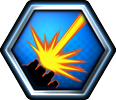
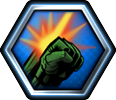
PowerHouse v1.5.0
Updates to:
* Gatling Gun and Combat Drones tooltips.
* Suppression Fire and Heavy Fire advantage point costs.
* Munition power icons.
* The Renegade innate talent.

* Added The Vanguard innate talent and Archetype.
* Temporary Rolling Fire: More Bullets advantage description. (In-game text error)
* Added Rolling Fire, Heavy Burst, and Tactical Strike powers.

diff --git a/powerhouse-data.js b/powerhouse-data.js
@@ -5,7 +5,7 @@
  *
  * Author: Kyle W T Sherman
  *
- * Time-stamp: <2026-08-22 06:35:00 (woof-wolf)>
+ * Time-stamp: <2026-09-02 07:40:00 (woof-wolf)>
  *============================================================================*/
 
 //==============================================================================
@@ -171,7 +171,9 @@ dataInnateTalent[dataInnateTalent.length] = new InnateTalent(dataInnateTalent.le
 dataInnateTalent[dataInnateTalent.length] = new InnateTalent(dataInnateTalent.length, 'The Combatant', 'The Combatant', 'Str: 10, Dex: 10, Int: 8, Ego: 10', 'This is the innate characteristic for The Combatant.<br />Con: 5, End: 5, Str: 10, Dex: 10, Int: 8, Ego: 10, Pre: 5, Rec: 5');
 dataInnateTalent[dataInnateTalent.length] = new InnateTalent(dataInnateTalent.length, 'The Fissile', 'The Fissile', 'Dex: 10, Int: 10, Ego: 8, Rec: 10', 'This is the innate characteristic for The Fissile.<br />Con: 5, End: 5, Str: 5, Dex: 10, Int: 10, Ego: 8, Pre: 5, Rec: 10');
 dataInnateTalent[dataInnateTalent.length] = new InnateTalent(dataInnateTalent.length, 'The Overseer', 'The Overseer', 'End: 8, Int: 10, Ego: 10, Pre: 10', 'This is the innate characteristic for The Overseer.<br />Con: 5, End: 8, Str: 5, Dex: 5, Int: 10, Ego: 10, Pre: 10, Rec: 5');
-dataInnateTalent[dataInnateTalent.length] = new InnateTalent(dataInnateTalent.length, 'The Renegade', 'The Renegade', 'Con: 8, End: 8, Dex: 10, Int: 10, Ego: 10, Rec: 10', 'This is the innate characteristic for The Renegade.<br />Con: 8, End: 8, Str: 5, Dex: 10, Int: 10, Ego: 10, Pre: 5, Rec: 10');
+dataInnateTalent[dataInnateTalent.length] = new InnateTalent(dataInnateTalent.length, 'The Renegade', 'The Renegade', 'End: 8, Dex: 10, Ego: 10, Rec: 10', 'This is the innate characteristic for The Renegade.<br />Con: 5, End: 8, Str: 5, Dex: 10, Int: 5, Ego: 10, Pre: 5, Rec: 10');
+
+dataInnateTalent[dataInnateTalent.length] = new InnateTalent(dataInnateTalent.length, 'The Vanguard', 'The Vanguard', 'Con: 10, End: 8, Ego: 10, Rec: 10', 'This is the innate characteristic for The Vanguard.<br />Con: 10, End: 8, Str: 5, Dex: 5, Int: 5, Ego: 10, Pre: 5, Rec: 10');
 
 //==============================================================================
 // Talents
@@ -6971,9 +6973,88 @@ dataPower[dataPower.length-1].advantageList.push(new PowerAdvantage(2, dataPower
 dataPower[dataPower.length-1].advantageList.push(new PowerAdvantage(3, 'Paint the Target', 'Paint the Target', 2, null, steadyFire.paintTheTarget));
 dataPower[dataPower.length-1].advantageList.push(new PowerAdvantage(4, dataPowerAlias['AM'].name, dataPowerAlias['AM'].desc, 1, null, dataPowerAlias['AM'].tip));
 
+const rollingFire = {
+  power: 
+  '<div class="popup-header">\
+    <div>Munitions<br><br>ENERGY BUILDER - RANGED DAMAGE<br><br>MAINTAIN</div>\
+  </div>\
+  <hr>\
+  <div class="popup-header">\
+    <div>INITIAL HIT<br>0 + 0 Energy every 0.5 sec<br>0.5 sec activate time (4 max)</div>\
+    <div style="text-align:right;">Targets foe<br>50 feet</div>\
+  </div>\
+  <ul>\
+    <li>Deals 49 Piercing Damage and generates +14% Energy.</li>\
+  </ul>\
+  <hr>\
+  <div class="popup-header">\
+    <div>SUBSEQUENT HITS<br>0 + 0 Energy every 0.5 sec<br>0.5 sec activate time (4 max)</div>\
+    <div style="text-align:right;">Targets foe<br>50 feet</div>\
+  </div>\
+  <ul>\
+    <li>Deals 35 Piercing Damage and generates +10% Energy every 0.5 sec.</li>\
+  </ul>',
+
+  moreBullets:
+  '<div>\
+  MORE BULLETS<br>\
+  <ul>\
+    <li>Changes this power to deal damage in a Cylinder instead of to only a single target.</li>\
+  </ul>\
+  </div>'
+};
+
+dataPower[dataPower.length] = new Power(dataPower.length, 'Rolling Fire', '<img src="img/power-icons/munitions/Munitions_RollingFire.png" />&nbsp;Rolling Fire', 2, 7, pow++, -1, rollingFire.power);
+dataPower[dataPower.length-1].advantageList.push(new PowerAdvantage(0, null, null, null, null, null));
+dataPower[dataPower.length-1].advantageList.push(new PowerAdvantage(1, dataPowerAlias['R2'].name, dataPowerAlias['R2'].desc, 2, null, dataPowerAlias['R2'].tip));
+dataPower[dataPower.length-1].advantageList.push(new PowerAdvantage(2, dataPowerAlias['R3'].name, dataPowerAlias['R3'].desc, 2, 1, dataPowerAlias['R3'].tip));
+dataPower[dataPower.length-1].advantageList.push(new PowerAdvantage(3, 'More Bullets', 'More Bullets', 2, null, rollingFire.moreBullets));
+dataPower[dataPower.length-1].advantageList.push(new PowerAdvantage(4, dataPowerAlias['AM'].name, dataPowerAlias['AM'].desc, 1, null, dataPowerAlias['AM'].tip));
+
 //------------------------------------------------------------------------------
 // Munitions: Tier 0
 //------------------------------------------------------------------------------
+
+const heavyBurst = {
+  power: 
+  '<div class="popup-header">\
+    <div>Munitions<br>29-50 Energy cost<br>1.33 sec charge time<br>0.67 sec activate time</div>\
+    <div style="text-align:right;">Targets foe<br>100 feet</div>\
+  </div><br>\
+  RANGED DAMAGE - BLAST - FURIOUS<br><br>\
+  CHARGE<br>\
+  <ul>\
+    <li>Deals 193-496 Piercing Damage based on charge time, and has a 45-100% chance to apply a stack of Furious to you.</li>\
+    <li>Furious gives you +1.5% Critical Chance for 15 sec. This effect can stack up to 3 times.</li>\
+    <li>When taking damage, Furious grants you Willpower, which gives you +300 Health Points over 3 seconds. Willpower can stack up to 3 times.</li>\
+  </ul>',
+
+  armorPiercing:
+  '<div>\
+  ARMOR PIERCING<br>\
+  <ul>\
+    <li>When this power is fully charged, applies <strong>Armor Piercing</strong>, reducing your target\\\'s resistance to your <strong>Crushing</strong> and <strong>Piercing</strong> damage for a short time.</li>\
+  </ul>\
+  </div>',
+
+  highVelocityRounds:
+  '<div>\
+  HIGH VELOCITY ROUNDS<br>\
+  <ul>\
+    <li>Chance to <strong>Knock Back</strong> targets.</li>\
+  </ul>\
+  </div>'
+};
+
+dataPower[dataPower.length] = new Power(dataPower.length, 'Heavy Burst', '<img src="img/power-icons/munitions/Munitions_HeavyBurst.png" />&nbsp;Heavy Burst', 2, 7, pow++, 0, heavyBurst.power);
+dataPower[dataPower.length-1].advantageList.push(new PowerAdvantage(0, null, null, null, null, null));
+dataPower[dataPower.length-1].advantageList.push(new PowerAdvantage(1, dataPowerAlias['R2'].name, dataPowerAlias['R2'].desc, 2, null, dataPowerAlias['R2'].tip));
+dataPower[dataPower.length-1].advantageList.push(new PowerAdvantage(2, dataPowerAlias['R3'].name, dataPowerAlias['R3'].desc, 2, 1, dataPowerAlias['R3'].tip));
+dataPower[dataPower.length-1].advantageList.push(new PowerAdvantage(3, 'Armor Piercing', 'Armor Piercing', 2, null, heavyBurst.armorPiercing));
+dataPower[dataPower.length-1].advantageList.push(new PowerAdvantage(4, 'High Velocity Rounds', 'High Velocity Rounds', 2, null, heavyBurst.highVelocityRounds));
+dataPower[dataPower.length-1].advantageList.push(new PowerAdvantage(5, dataPowerAlias['AM'].name, dataPowerAlias['AM'].desc, 1, null, dataPowerAlias['AM'].tip));
+dataPower[dataPower.length-1].advantageList.push(new PowerAdvantage(6, dataPowerAlias['BRK'].name, dataPowerAlias['BRK'].desc, 3, null, dataPowerAlias['BRK'].tip));
+dataPower[dataPower.length-1].advantageList.push(new PowerAdvantage(7, dataPowerAlias['CHAL'].name, dataPowerAlias['CHAL'].desc, 1, null, dataPowerAlias['CHAL'].tip));
 
 const burstShot = {
   power: 
@@ -7606,9 +7687,9 @@ dataPower[dataPower.length] = new Power(dataPower.length, 'Heavy Fire', '<img sr
 dataPower[dataPower.length-1].advantageList.push(new PowerAdvantage(0, null, null, null, null, null));
 dataPower[dataPower.length-1].advantageList.push(new PowerAdvantage(1, dataPowerAlias['R2'].name, dataPowerAlias['R2'].desc, 2, null, dataPowerAlias['R2'].tip));
 dataPower[dataPower.length-1].advantageList.push(new PowerAdvantage(2, dataPowerAlias['R3'].name, dataPowerAlias['R3'].desc, 2, 1, dataPowerAlias['R3'].tip));
-dataPower[dataPower.length-1].advantageList.push(new PowerAdvantage(3, 'I Am Bullet Proof!', 'I Am Bullet Proof!', 2, null, heavyFire.iAmBulletProof));
+dataPower[dataPower.length-1].advantageList.push(new PowerAdvantage(3, 'I Am Bullet Proof!', 'I Am Bullet Proof!', 3, null, heavyFire.iAmBulletProof));
 dataPower[dataPower.length-1].advantageList.push(new PowerAdvantage(4, 'Assault', 'Assault', 2, null, heavyFire.assault));
-dataPower[dataPower.length-1].advantageList.push(new PowerAdvantage(5, 'Aggression', 'Aggression', 3, null, heavyFire.aggression));
+dataPower[dataPower.length-1].advantageList.push(new PowerAdvantage(5, 'Aggression', 'Aggression', 2, null, heavyFire.aggression));
 dataPower[dataPower.length-1].advantageList.push(new PowerAdvantage(6, dataPowerAlias['AM'].name, dataPowerAlias['AM'].desc, 1, null, dataPowerAlias['AM'].tip));
 dataPower[dataPower.length-1].advantageList.push(new PowerAdvantage(7, dataPowerAlias['BRK'].name, dataPowerAlias['BRK'].desc, 3, null, dataPowerAlias['BRK'].tip));
 dataPower[dataPower.length-1].advantageList.push(new PowerAdvantage(8, dataPowerAlias['CHAL'].name, dataPowerAlias['CHAL'].desc, 1, null, dataPowerAlias['CHAL'].tip));
@@ -7659,7 +7740,7 @@ dataPower[dataPower.length] = new Power(dataPower.length, 'Suppression Fire', '<
 dataPower[dataPower.length-1].advantageList.push(new PowerAdvantage(0, null, null, null, null, null));
 dataPower[dataPower.length-1].advantageList.push(new PowerAdvantage(1, dataPowerAlias['R2'].name, dataPowerAlias['R2'].desc, 2, null, dataPowerAlias['R2'].tip));
 dataPower[dataPower.length-1].advantageList.push(new PowerAdvantage(2, dataPowerAlias['R3'].name, dataPowerAlias['R3'].desc, 2, 1, dataPowerAlias['R3'].tip));
-dataPower[dataPower.length-1].advantageList.push(new PowerAdvantage(3, 'Wall of Bullets', 'Wall of Bullets', 2, null, suppressionFire.wallOfBullets));
+dataPower[dataPower.length-1].advantageList.push(new PowerAdvantage(3, 'Wall of Bullets', 'Wall of Bullets', 3, null, suppressionFire.wallOfBullets));
 dataPower[dataPower.length-1].advantageList.push(new PowerAdvantage(4, 'Aggression', 'Aggression', 2, null, suppressionFire.aggression));
 dataPower[dataPower.length-1].advantageList.push(new PowerAdvantage(5, 'Listen to Reason', 'Listen to Reason', 2, null, suppressionFire.listenToReason));
 dataPower[dataPower.length-1].advantageList.push(new PowerAdvantage(6, dataPowerAlias['AM'].name, dataPowerAlias['AM'].desc, 1, null, dataPowerAlias['AM'].tip));
@@ -8035,19 +8116,6 @@ dataPower[dataPower.length-1].advantageList.push(new PowerAdvantage(7, dataPower
 const gatlingGun = {
   power: 
   '<div class="popup-header">\
-    <div>Munitions<br>30 + 23 Energy every 0.5 sec<br>0.5 sec activate time (4 max)</div>\
-    <div style="text-align:right;">Targets foe (5 max)<br>100 feet; 3 foot Cylinder</div>\
-  </div><br>\
-  RANGED AOE DAMAGE - DEBUFF<br><br>\
-  MAINTAIN<br>\
-  <ul>\
-    <li>Deals 65 Piercing Damage 2 times every 0.5 sec to all targets.</li>\
-    <li>Has a 10% chance every hit to apply Armor Piercing to affected targets, reducing their Crushing and Piercing resistance for your attacks by 15% for 15 sec.</li>\
-    <li>When fully maintained, has a 100% chance to apply Armor Piercing.</li>\
-  </ul>',
-
-  powerPTS: 
-  '<div class="popup-header">\
     <div>Munitions<br>32 + 25 Energy every 0.5 sec<br>0.5 sec activate time (4 max)</div>\
     <div style="text-align:right;">Targets foe (5 max)<br>100 feet; 3 foot Cylinder</div>\
   </div><br>\
@@ -8384,8 +8452,8 @@ const combatDrones = {
   RANK UP BENEFITS<br>\
   <ul>\
     <li>R1: In Healing Mode, your Combat Drones have a strong, single target maintained Healing Beam. In Offense Mode, they use a quick firing but relatively weak Gatling Gun.</li>\
-    <li>R2: The Healing Beam and Gatling Gun are upgraded to affect all targets in a line.</li>\
-    <li>R3: The Healing Beam now affects all allies in a sphere around the main healing target, and Gatling Gun can refresh a portion of your Frail Armor or Armor Piercing debuffs.</li>\
+    <li>R2: The Healing Beam and Gatling Gun are upgraded to affect all targets in a line, and Gatling Gun gains a small chance to <strong>Fear</strong> targets.</li>\
+    <li>R3: The Healing Beam now affects all allies in a sphere around the main healing target, and Gatling Gun can refresh a portion of your <strong>Frail Armor</strong> or <strong>Armor Piercing</strong> debuffs.</li>\
   </ul>'
 };
 
@@ -8531,7 +8599,7 @@ const twoGunMojo = {
   MAINTAIN<br>\
   <ul>\
     <li>Deals 163 Piercing Damage every 0.5 sec.</li>\
-    <li>Has a 15% chance every hit to apply Furious, increasing your Critical Chance by 1.5% for 12 sec. Stacks up to 3 times. When taking damage, Furious grants you Willpower, healing you for 300 health over 3 sec.</li>\
+    <li>Has a 15% chance every hit to apply Furious, increasing your Critical Chance by 1.5% for 12 sec. Stacks up to 3 times. When taking damage, Furious grants you Willpower, healing you for +300 Health Points over 3 sec.</li>\
   </ul>',
 
   closeTheGap:
@@ -8691,7 +8759,7 @@ const gatlingArm = {
   MAINTAIN<br>\
   <ul>\
     <li>Deals 151 Piercing Damage every 0.5 sec.</li>\
-    <li>Has a 10% chance every hit to apply Furious, increasing your Critical Chance by 1.5% for 12 sec. Stacks up to 3 times. When taking damage, Furious grants you Willpower, healing you for 300 health over 3 sec.</li>\
+    <li>Has a 10% chance every hit to apply Furious, increasing your Critical Chance by 1.5% for 12 sec. Stacks up to 3 times. When taking damage, Furious grants you Willpower, healing you for +300 Health Points over 3 sec.</li>\
   </ul>',
 
   opportunistic:
@@ -8749,6 +8817,47 @@ dataPower[dataPower.length-1].advantageList.push(new PowerAdvantage(1, dataPower
 dataPower[dataPower.length-1].advantageList.push(new PowerAdvantage(2, dataPowerAlias['R3'].name, dataPowerAlias['R3'].desc, 2, 1, dataPowerAlias['R3'].tip));
 dataPower[dataPower.length-1].advantageList.push(new PowerAdvantage(3, 'Tread Softly', 'Tread Softly', 2, null, leadTempest.treadSoftly));
 dataPower[dataPower.length-1].advantageList.push(new PowerAdvantage(4, 'Maybe I\'m Just Better', 'Maybe I\'m Just Better', 2, null, leadTempest.maybeImJustBetter));
+dataPower[dataPower.length-1].advantageList.push(new PowerAdvantage(5, dataPowerAlias['AM'].name, dataPowerAlias['AM'].desc, 1, null, dataPowerAlias['AM'].tip));
+
+const tacticalStrike = {
+  power: 
+  '<div class="popup-header">\
+    <div>Munitions<br>76 Energy cost<br>0.83 sec charge time (0.83 min)<br>0.67 sec activate time</div>\
+    <div style="text-align:right;">Targets foe<br>100 feet<br>15 seconds recharge</div>\
+  </div><br>\
+  RANGED AOE DAMAGE - DISORIENT - KNOCK<br><br>\
+  CHARGE<br>\
+  <ul>\
+    <li>This power must be fully charged to activate.</li>\
+    <li>After 2.5 sec, deals 1,085 Crushing Damage to foes within 15ft.</li>\
+    <li>Knocks affected targets together 17ft and applies Disorient, reducing damage by 10% and movement speed by 50% for 12 sec.</li>\
+  </ul>',
+
+  blastRadius:
+  '<div>\
+  BLAST RADIUS<br>\
+  <ul>\
+    <li>This power now <strong>Knocks Back</strong> targets.</li>\
+  </ul>\
+  </div>',
+
+  stimPack:
+  '<div>\
+  STIM PACK<br>\
+  <ul>\
+    <li>Applies <strong>Restoration</strong>, which gives you a heal over time.</li>\
+    <li>Heals for an additional amount if your health is low.</li>\
+    <li>Has a short internal cooldown after use.</li>\
+  </ul>\
+  </div>'
+};
+
+dataPower[dataPower.length] = new Power(dataPower.length, 'Tactical Strike', '<img src="img/power-icons/munitions/Munitions_TacticalStrike.png" />&nbsp;Tactical Strike', 2, 7, pow++, 3, tacticalStrike.power);
+dataPower[dataPower.length-1].advantageList.push(new PowerAdvantage(0, null, null, null, null, null));
+dataPower[dataPower.length-1].advantageList.push(new PowerAdvantage(1, dataPowerAlias['R2'].name, dataPowerAlias['R2'].desc, 2, null, dataPowerAlias['R2'].tip));
+dataPower[dataPower.length-1].advantageList.push(new PowerAdvantage(2, dataPowerAlias['R3'].name, dataPowerAlias['R3'].desc, 2, 1, dataPowerAlias['R3'].tip));
+dataPower[dataPower.length-1].advantageList.push(new PowerAdvantage(3, 'Blast Radius', 'Blast Radius', 1, null, tacticalStrike.blastRadius));
+dataPower[dataPower.length-1].advantageList.push(new PowerAdvantage(4, 'Stim Pack', 'Stim Pack', 2, null, tacticalStrike.stimPack));
 dataPower[dataPower.length-1].advantageList.push(new PowerAdvantage(5, dataPowerAlias['AM'].name, dataPowerAlias['AM'].desc, 1, null, dataPowerAlias['AM'].tip));
 
 //------------------------------------------------------------------------------
@@ -14384,7 +14493,7 @@ const rendAndTear = {
   </div>\
   <ul>\
     <li>Deals 332 Slashing Damage and applies Furious to you, increasing your chance to critically hit by 1.5% for 12 sec. Stacks up to 3 times.</li>\
-    <li>When taking damage, Furious grants you Willpower, which heals you for 300 health over 3 sec.</li>\
+    <li>When taking damage, Furious grants you Willpower, which heals you for +300 Health Points over 3 sec.</li>\
   </ul>',
 
   noCodeOfConduct:
@@ -28667,6 +28776,7 @@ The Tempest, Ranged
 The Tenebrous, Support
 
 The Unleashed, Melee
+The Vanguard, Tank
 The Void, Hybrid
 The Witch, Support
 The Wrecker, Melee
@@ -28923,6 +29033,12 @@ dataArchetype[dataArchetype.length] = new Archetype(dataArchetype.length, 'The T
 //------------------------------------------------------------------------------
 
 dataArchetype[dataArchetype.length] = new Archetype(dataArchetype.length, 'The Unleashed', '<img src="img/archetype-icons/Archetype_Unleashed.png" />&nbsp;The Unleashed', 'Melee', ['Dexterity', 'Recovery', 'Strength'], 'The Unleashed', ['Rain of Steel', 'Blade Tempest', 'Form of the Tempest', 'Way of the Warrior', ['Force Snap', 'Strike Down'], ['Force Eruption', 'Eye of the Storm'], ['Bountiful Chi Resurgence', 'Mind Wipe'], 'Dragon\'s Wrath', 'Force Shield', 'Relentless', ['Intensity', 'Field Surge'], ['Containment Field', 'Force Geyser']], ['Dexterity', 'Warden', 'Vindicator'], '<b>The Unleashed, Melee</b>');
+
+//------------------------------------------------------------------------------
+// The Vanguard, Tank
+//------------------------------------------------------------------------------
+
+dataArchetype[dataArchetype.length] = new Archetype(dataArchetype.length, 'The Vanguard', '<img src="img/archetype-icons/Archetype_Vanguard.png" />&nbsp;The Vanguard', 'Tank', ['Ego', 'Recovery', 'Constitution'], 'The Vanguard', ['Rolling Fire', 'Heavy Burst', 'Heavy Fire', 'Invulnerability', 'Concentration', ['Combat Drones', 'Mini Mines'], 'Energy Shield', 'Gatling Gun', 'Killer Instinct', 'Unbreakable', ['Tactical Strike', 'Energy Wave'], 'Implosion Engine'], ['Ego', 'Protector', 'Guardian'], '<b>The Vanguard, Tank</b>');
 
 //------------------------------------------------------------------------------
 // The Void, Hybrid

diff --git a/powerhouse-version.js b/powerhouse-version.js
@@ -5,7 +5,7 @@
  *
  * Author: Kyle W T Sherman
  *
- * Time-stamp: <2026-08-22 06:35:00 (woof-wolf)>
+ * Time-stamp: <2026-09-02 07:40:00 (woof-wolf)>
  *============================================================================*/
 
 //==============================================================================
@@ -899,7 +899,7 @@ dataVersionUpdate[dataVersionUpdate.length] = new VersionUpdate(
         case 'framework': return value['framework'];
         case 'power': 
             var power = value['power'];
-            // Add T0 power: Steady Fire
+            // Add EB power: Steady Fire
             if (codeNum1 == 7 && codeNum2 >= 2) power++;
             // Add T1 power: Backhand Strike
             if (codeNum1 == 7 && codeNum2 >= 5) power++;
@@ -917,6 +917,49 @@ dataVersionUpdate[dataVersionUpdate.length] = new VersionUpdate(
             if (codeNum1 == 7 && codeNum2 >= 25) power++;
             // Add T3 power: Gatling Arm
             if (codeNum1 == 7 && codeNum2 >= 30) power++;
+
+            return power;
+        case 'mask': return value['mask'];
+        case 'specializationTree': return value['specializationTree'];
+        case 'specialization': return value['specialization'];
+        }
+});
+
+// Version 4 => 5
+// Addition of Munitions Powers
+dataVersionUpdate[dataVersionUpdate.length] = new VersionUpdate(
+    dataVersionUpdate.length, 4,
+    function(thing, value) {
+        var codeNum1 = (value['code1'] == undefined) ? 0 : urlCodeToNum(value['code1']); // framework
+        var codeNum2 = (value['code2'] == undefined) ? 0 : urlCodeToNum(value['code2']); // power
+        // var codeNum3 = (value['code3'] == undefined) ? 0 : urlCodeToNum(value['code3']);
+        // var codeNum4 = (value['code4'] == undefined) ? 0 : urlCodeToNum(value['code4']);
+        switch (thing) {
+        case 'data': return value['data'];
+        case 'pos': return value['pos'];
+        case 'i': return value['i'];
+        case 'inc': return value['inc'];
+        case 'code1': return value['code1'];
+        case 'code2': return value['code2'];
+        case 'code3': return value['code3'];
+        case 'code4': return value['code4'];
+        case 'archetype': 
+            if (value['type'] == 'archetype' && value['archetype'] >= 43) return value['archetype'] + 1;
+            return value['archetype'];
+        case 'superStat': return value['superStat'];
+        case 'innateTalent': return value['innateTalent'];
+        case 'talent': return value['talent'];
+        case 'CAMS': return value['CAMS'];
+        case 'travelPower': return value['travelPower'];
+        case 'framework': return value['framework'];
+        case 'power': 
+            var power = value['power'];
+            // Add EB power: Rolling Fire
+            if (codeNum1 == 7 && codeNum2 >= 3) power++;
+            // Add T0 power: Heavy Burst
+            if (codeNum1 == 7 && codeNum2 >= 3) power++;
+            // Add T3 power: Tactical Strike
+            if (codeNum1 == 7 && codeNum2 >= 40) power++;
 
             return power;
         case 'mask': return value['mask'];

diff --git a/powerhouse.js b/powerhouse.js
@@ -5,13 +5,13 @@
  *
  * Author: Kyle W T Sherman
  *
- * Time-stamp: <2026-08-30 02:00:00 (woof-wolf)>
+ * Time-stamp: <2026-09-02 07:40:00 (woof-wolf)>
  *============================================================================*/
 
 var debug = false;
-var version = '1.4.1';
-var releaseDate = '2026-08-30';
-var buildVersion = 4;
+var version = '1.5.0';
+var releaseDate = '2026-09-02';
+var buildVersion = 5;
 
 var siteName = 'PowerHouse';
 var siteUrl = 'https://woof-wolf.github.io/powerhouse/';

diff --git a/powerhouse.css b/powerhouse.css
@@ -5,7 +5,7 @@
  *
  * Author: Kyle W T Sherman
  *
- * Time-stamp: <2026-08-22 06:35:00 (woof-wolf)>
+ * Time-stamp: <2026-09-02 07:40:00 (woof-wolf)>
  */
 
 html {
